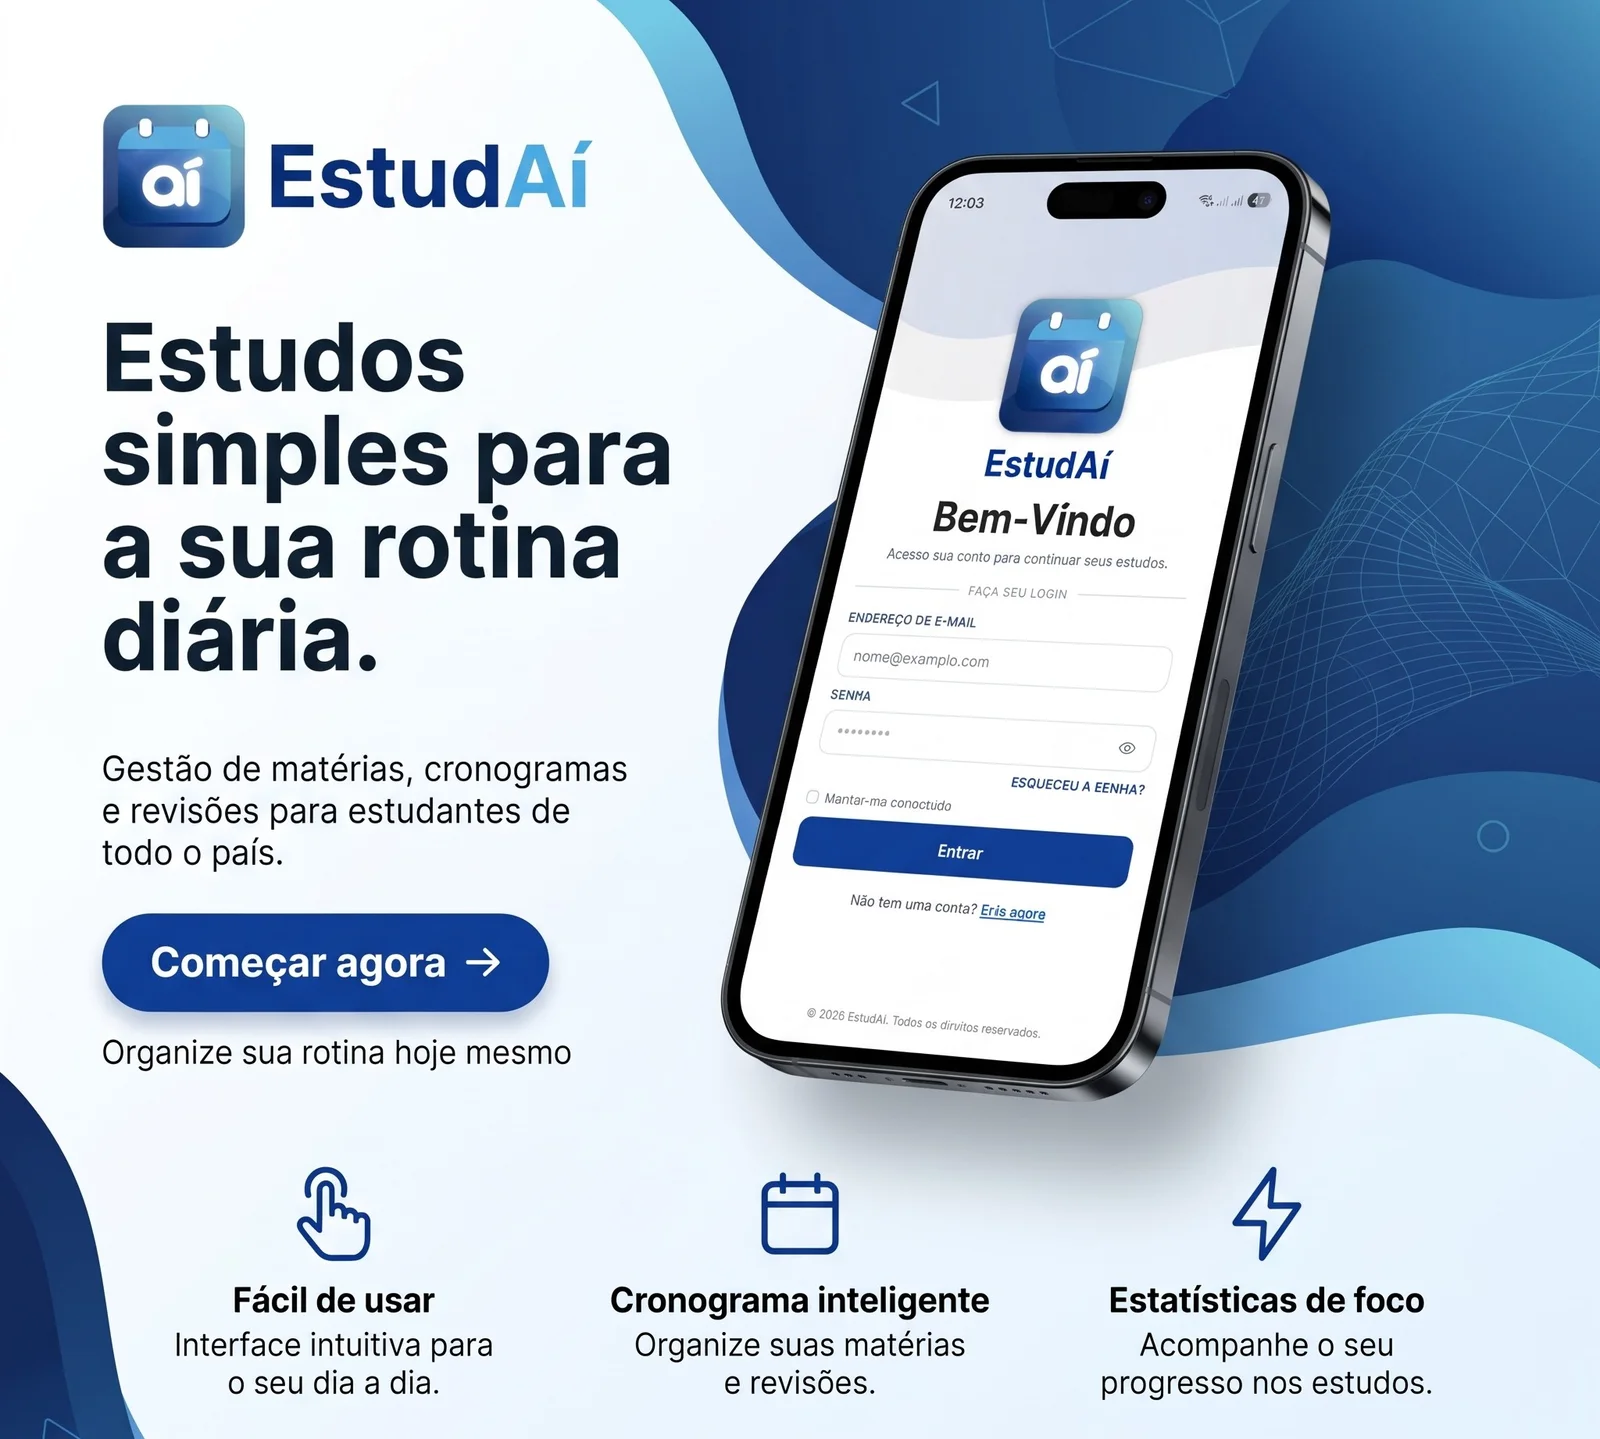
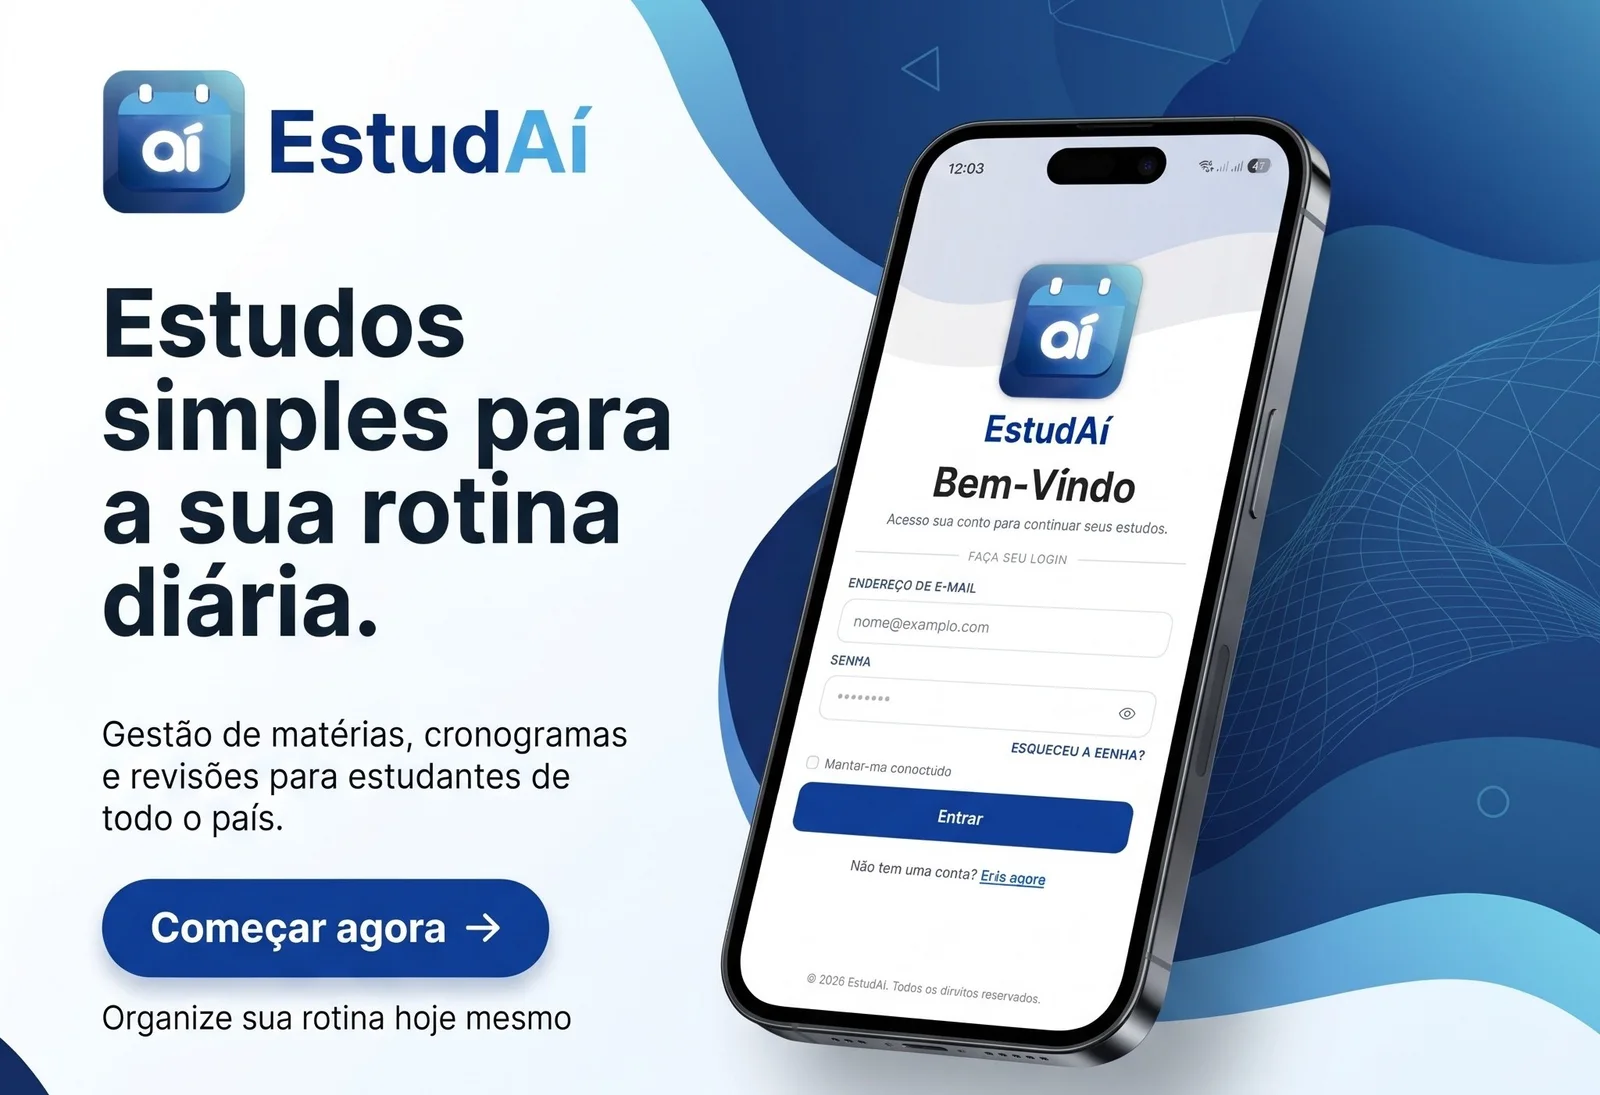
feat: arte nova do EstudAí e troca de lugar com a Brisa Solar no destaque

diff --git a/src/components/RecentProjects.jsx b/src/components/RecentProjects.jsx
@@ -31,7 +31,7 @@ const entrada = {
 };
 
 // A ordem aqui e a ordem do destaque: Morcegao e o video do Trend Cast na primeira
-// faixa, TPark e Brisa na segunda, ObraFlow e EstudAi na terceira (ver os spans
+// faixa, TPark e EstudAi na segunda, ObraFlow e Brisa na terceira (ver os spans
 // no fim do styles.css).
 // Nos videos, `image` e a capa (um quadro do proprio video) e `video` o arquivo
 // que toca no card.
@@ -85,8 +85,20 @@ const projects = [
     alt: "Página inicial do site da TPark Estacionamentos",
   },
   {
-    id: "mercearia",
+    id: "estudai",
+    featured: true,
     index: "05",
+    category: "App",
+    title: "EstudAí",
+    description: "Organização e rotina de estudos em uma experiência mobile.",
+    image: "/assets/images/projects/estudai.webp",
+    wallImage: "/assets/images/projects/wall/estudai.webp",
+    aspect: 1.46,
+    alt: "Apresentação do aplicativo EstudAí com a tela de acesso no celular",
+  },
+  {
+    id: "mercearia",
+    index: "06",
     category: "App",
     title: "Mercearia Fácil",
     description: "Vendas, estoque e fornecedores para pequenos comércios.",
@@ -94,18 +106,6 @@ const projects = [
     wallImage: "/assets/images/projects/wall/mercearia-facil.webp",
     aspect: 1,
     alt: "Apresentação do aplicativo Mercearia Fácil",
-  },
-  {
-    id: "brisa",
-    featured: true,
-    index: "06",
-    category: "Design",
-    title: "Brisa Solar",
-    description: "Comunicação visual para energia residencial.",
-    image: "/assets/images/projects/brisa-solar.webp",
-    wallImage: "/assets/images/projects/wall/brisa-solar.webp",
-    aspect: 1,
-    alt: "Composição visual da marca Brisa Solar",
   },
   {
     id: "serra",
@@ -142,16 +142,16 @@ const projects = [
     alt: "Interface do sistema de gestão de obras ObraFlow",
   },
   {
-    id: "estudai",
+    id: "brisa",
     featured: true,
     index: "10",
-    category: "App",
-    title: "EstudAí",
-    description: "Organização e rotina de estudos em uma experiência mobile.",
-    image: "/assets/images/projects/estudai.webp",
-    wallImage: "/assets/images/projects/wall/estudai.webp",
-    aspect: 1.11,
-    alt: "Apresentação do aplicativo EstudAí com a tela de acesso no celular",
+    category: "Design",
+    title: "Brisa Solar",
+    description: "Comunicação visual para energia residencial.",
+    image: "/assets/images/projects/brisa-solar.webp",
+    wallImage: "/assets/images/projects/wall/brisa-solar.webp",
+    aspect: 1,
+    alt: "Composição visual da marca Brisa Solar",
   },
   {
     id: "anuncio",

diff --git a/src/styles.css b/src/styles.css
@@ -7204,10 +7204,16 @@ p {
   min-height: 21rem;
 }
 
-/* A arte do EstudAi e uma peca completa (quase quadrada), entao entra em cover
-   como a da Mercearia. */
+/* A arte do EstudAi e uma peca completa e larga (cerca de 3:2), entao entra em
+   cover como a da Mercearia, com altura baixa no celular para nao cortar os lados. */
 .bento-tile-estudai {
-  min-height: 22rem;
+  min-height: 16rem;
+}
+
+/* Em caixas mais estreitas que a arte o corte sai mais da direita: com o ponto em
+   20% o titulo da esquerda e o celular cabem inteiros. */
+.bento-tile-estudai > img {
+  object-position: 20% top;
 }
 
 .bento-tile-brisa {
@@ -7830,7 +7836,7 @@ p {
 }
 
 .bento-grid.is-filtered > .bento-tile-estudai {
-  aspect-ratio: 2048 / 1842;
+  aspect-ratio: 2048 / 1402;
 }
 
 .bento-grid.is-filtered > .bento-tile-trendcast,
@@ -9546,7 +9552,7 @@ p {
     grid-row: span 3;
   }
 
-  /* No destaque o EstudAi fecha par com o ObraFlow, que tem tres linhas. */
+  /* No destaque o EstudAi tem tres linhas, como o Trend Cast e o TPark. */
   .bento-grid:not(.is-filtered) > .bento-tile-estudai {
     grid-row: span 3;
   }
@@ -9676,20 +9682,14 @@ p {
 
   /* Faixas do destaque, repetidas aqui porque a regra de 48rem acima vem depois
      das originais e as sobrescrevia: Morcegao (7) e o video do Trend Cast (5) na
-     primeira; TPark (8) e Brisa (4), com quatro linhas, na segunda; ObraFlow (8) e
-     EstudAi (4), com tres, na terceira. */
+     primeira; TPark (8) e EstudAi (4), com tres linhas, na segunda; ObraFlow (8) e
+     Brisa (4), com as quatro da regra original, na terceira. */
   .bento-tile-morcegao {
     grid-column: span 7;
   }
 
   .bento-tile-tpark {
     grid-column: span 8;
-    grid-row: span 4;
-  }
-
-  .bento-grid:not(.is-filtered) > .bento-tile-obraflow {
-    grid-column: span 8;
-    grid-row: span 3;
   }
 
   .bento-grid:not(.is-filtered) > .bento-tile-trendcast {
